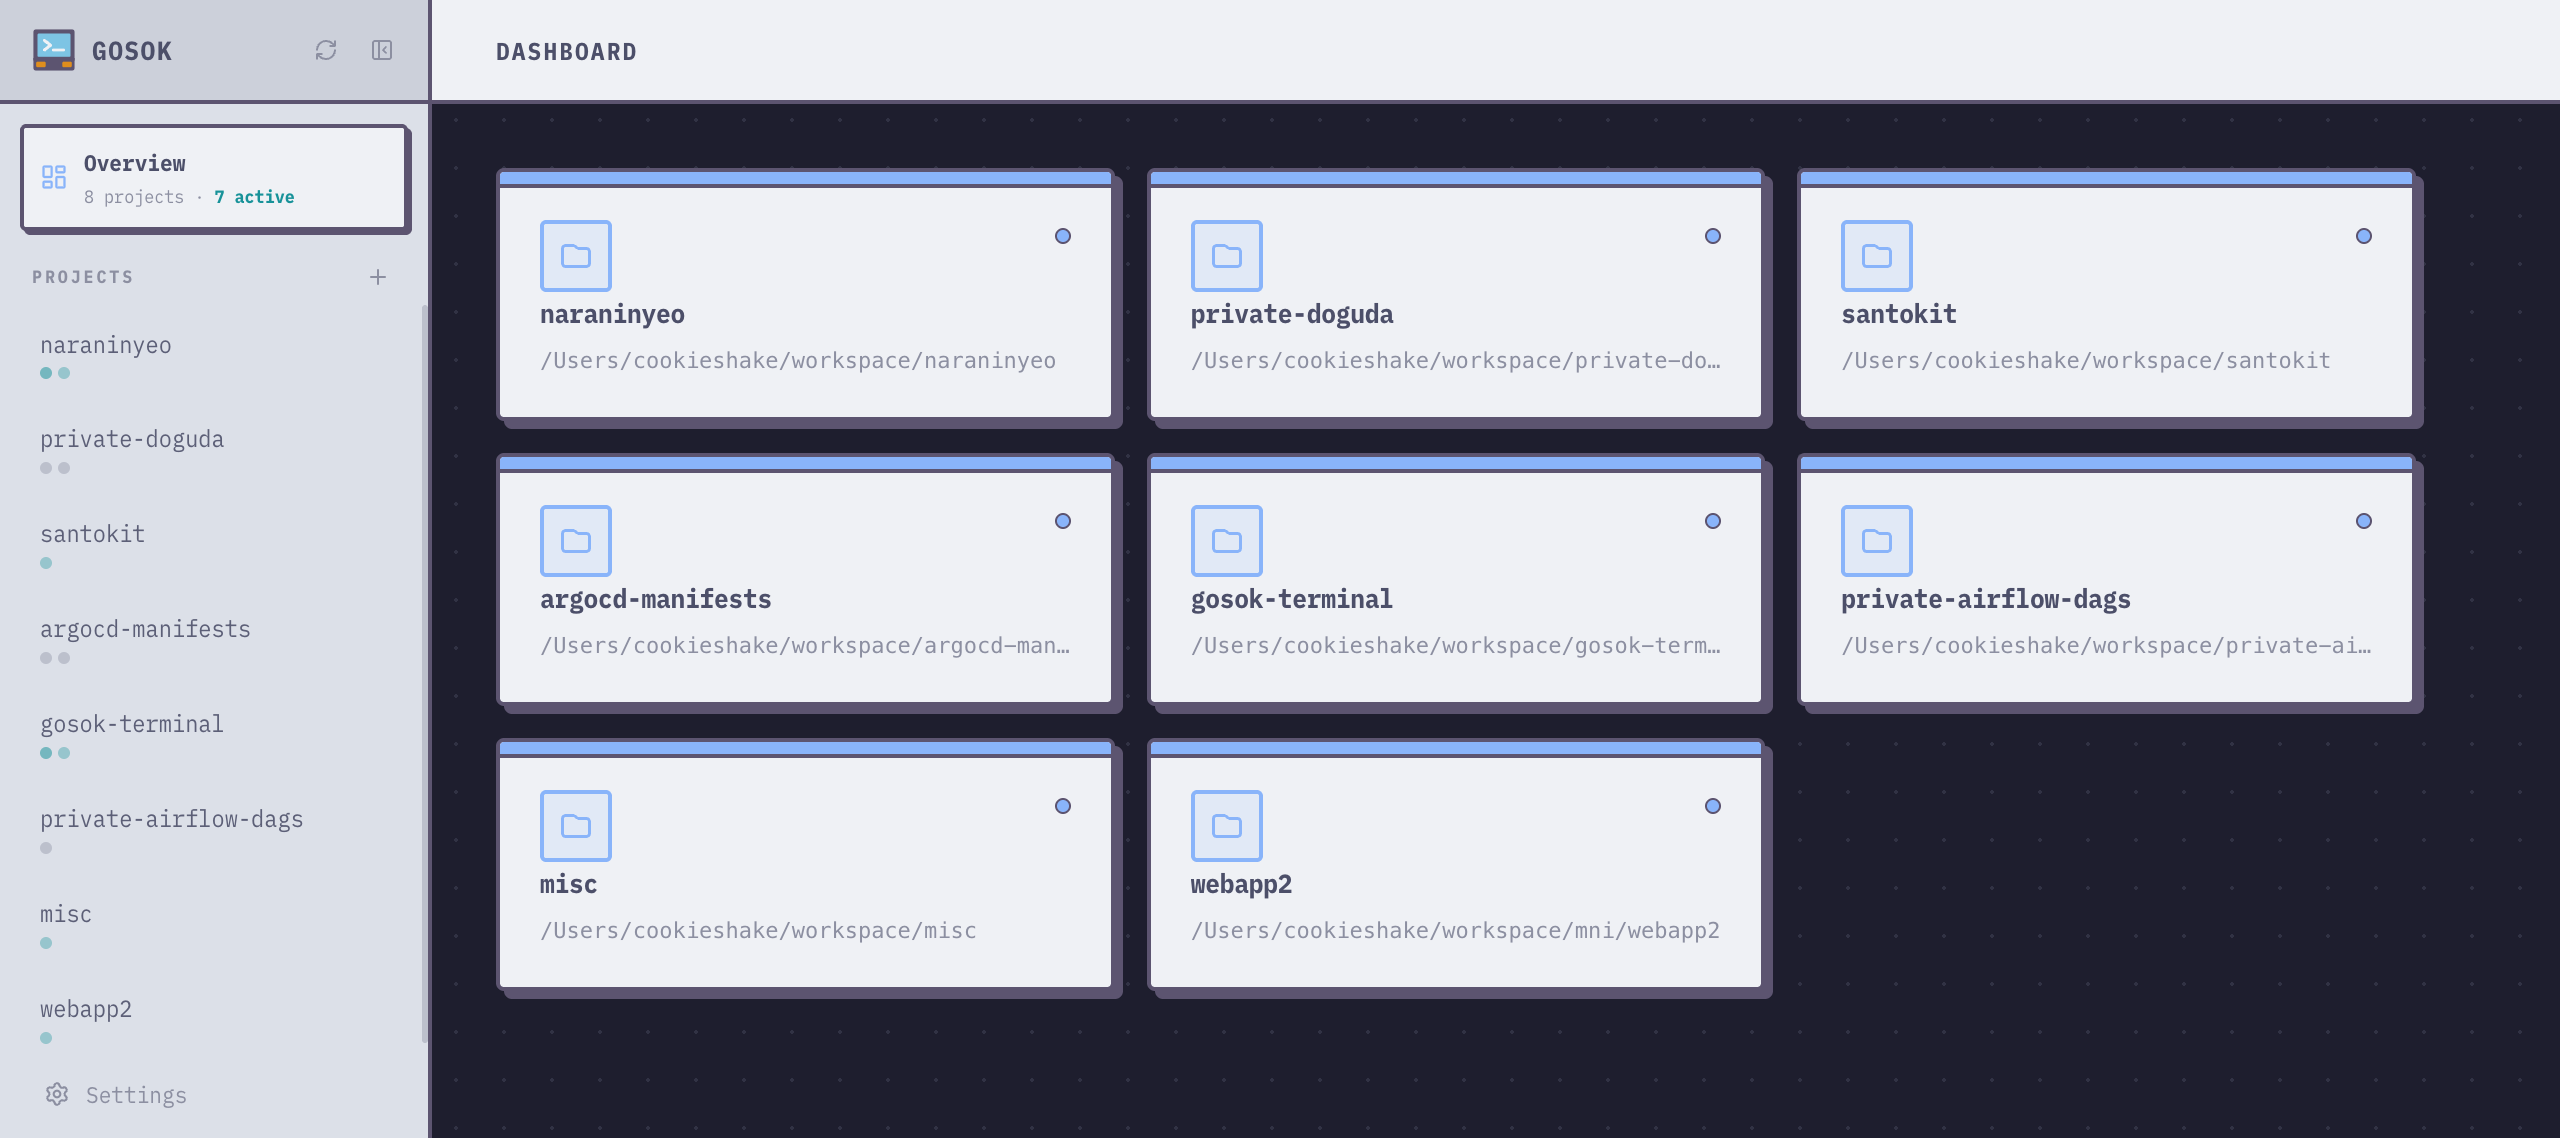
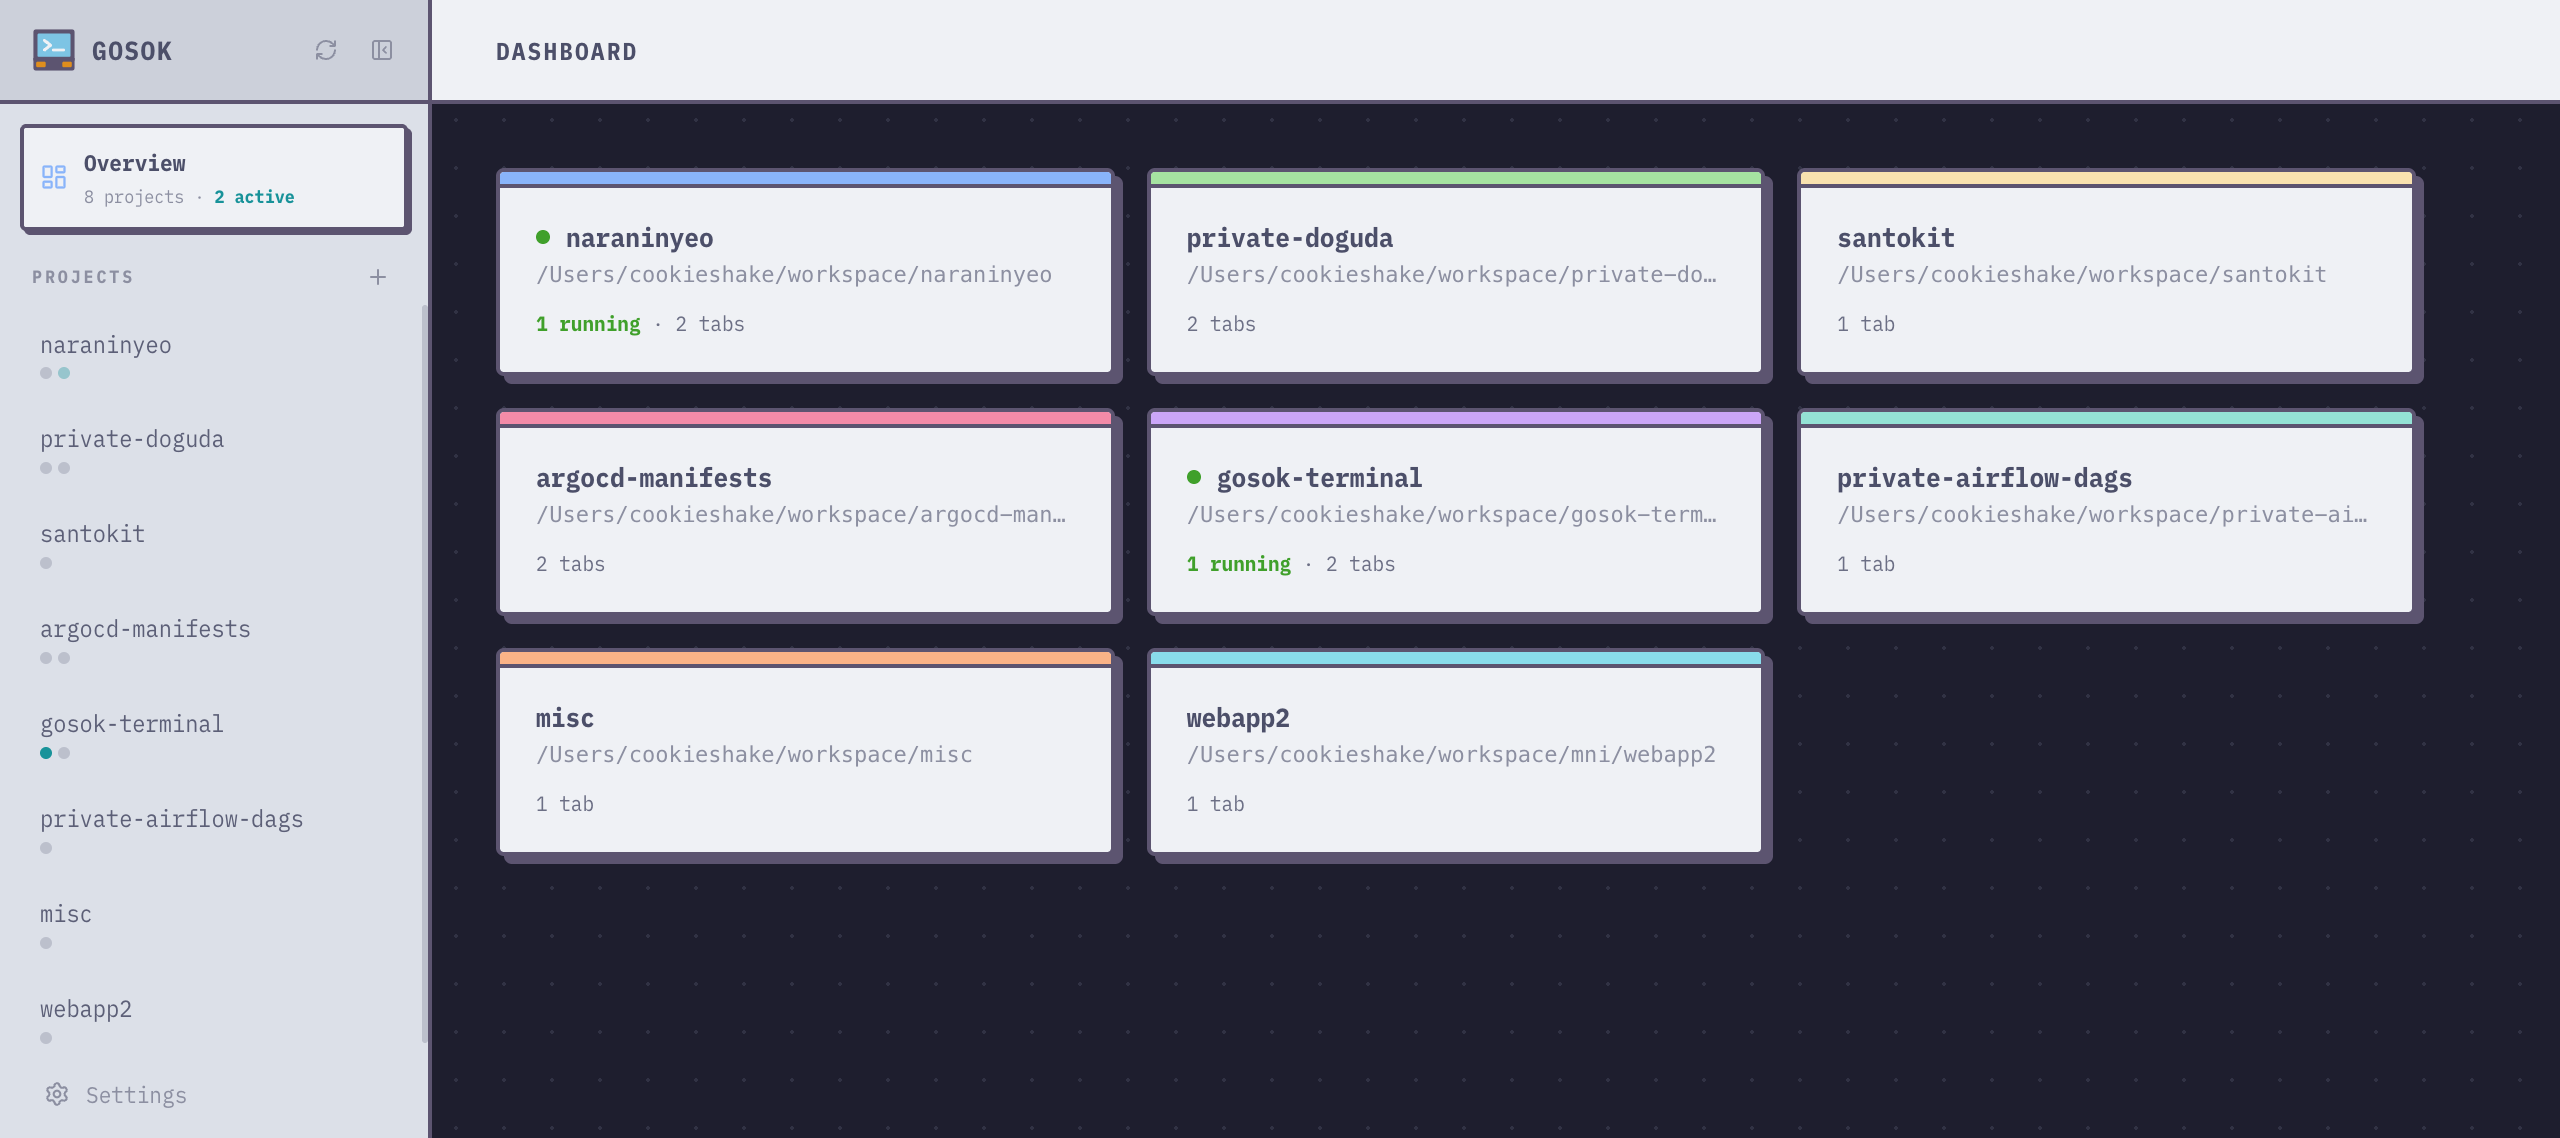
feat: improve dashboard with per-project accent colors and tab stats

Changed region(s): [[0.1875, 0.1538, 0.9688, 0.8919]]

diff --git a/frontend/src/components/Dashboard.tsx b/frontend/src/components/Dashboard.tsx
@@ -1,14 +1,21 @@
 import { useIsMobile } from '../hooks/useIsMobile';
 import type { Project } from '../api/types';
 
+interface TabSummary {
+  total: number;
+  running: number;
+  active: number;
+}
+
 interface DashboardProps {
   projects: Project[];
+  tabSummary: Record<string, TabSummary>;
   onSelectProject: (id: string) => void;
 }
 
-const CARD_ACCENTS = ['#89b4fa'];
+const ACCENTS = ['#89b4fa', '#a6e3a1', '#f9e2af', '#f38ba8', '#cba6f7', '#94e2d5', '#fab387', '#89dceb'];
 
-export default function Dashboard({ projects, onSelectProject }: DashboardProps) {
+export default function Dashboard({ projects, tabSummary, onSelectProject }: DashboardProps) {
   const isMobile = useIsMobile();
   return (
     <div className="flex flex-col h-full" style={{ background: 'transparent' }}>
@@ -39,9 +46,11 @@ export default function Dashboard({ projects, onSelectProject }: DashboardProps)
             <p style={{ fontSize: '0.6875rem', color: '#8c8fa1', marginTop: '4px' }}>Create one from the sidebar to get started</p>
           </div>
         ) : (
-          <div style={{ display: 'grid', gridTemplateColumns: 'repeat(auto-fill, minmax(280px, 1fr))', gap: '16px', maxWidth: '960px' }}>
+          <div style={{ display: 'grid', gridTemplateColumns: 'repeat(auto-fill, minmax(260px, 1fr))', gap: '16px', maxWidth: '960px' }}>
             {projects.map((p, i) => {
-              const accent = CARD_ACCENTS[i % CARD_ACCENTS.length];
+              const accent = ACCENTS[i % ACCENTS.length];
+              const summary = tabSummary[p.id];
+              const hasRunning = summary && summary.running > 0;
               return (
                 <button
                   key={p.id}
@@ -74,34 +83,35 @@ export default function Dashboard({ projects, onSelectProject }: DashboardProps)
                   {/* Accent title bar */}
                   <div style={{ height: '8px', background: accent, borderBottom: '2px solid #5c5470' }} />
 
-                  <div style={{ padding: '16px 20px 20px' }}>
-                    {/* Icon row */}
-                    <div className="flex items-start justify-between mb-3">
-                      <div style={{
-                        width: '36px', height: '36px', borderRadius: '3px', display: 'flex',
-                        alignItems: 'center', justifyContent: 'center',
-                        background: accent + '22', border: `2px solid ${accent}`,
-                      }}>
-                        <svg width="18" height="18" viewBox="0 0 24 24" fill="none">
-                          <path d="M3 7C3 5.89 3.89 5 5 5H10.17C10.7 5 11.21 5.21 11.59 5.59L12.41 6.41C12.79 6.79 13.3 7 13.83 7H19C20.11 7 21 7.89 21 9V17C21 18.11 20.11 19 19 19H5C3.89 19 3 18.11 3 17V7Z" stroke={accent} strokeWidth="2" strokeLinejoin="round"/>
-                        </svg>
+                  <div style={{ padding: '14px 18px 16px' }}>
+                    {/* Name + status */}
+                    <div className="flex items-center gap-2 mb-1">
+                      {hasRunning && (
+                        <div style={{ width: '7px', height: '7px', borderRadius: '50%', background: '#40a02b', flexShrink: 0 }} />
+                      )}
+                      <div style={{ fontSize: '0.875rem', fontWeight: 700, color: '#4c4f69', overflow: 'hidden', textOverflow: 'ellipsis', whiteSpace: 'nowrap' }}>
+                        {p.name}
                       </div>
-                      <div style={{ width: '8px', height: '8px', borderRadius: '50%', background: accent, border: '1px solid #5c5470', marginTop: '4px' }} />
-                    </div>
-
-                    {/* Name */}
-                    <div style={{ fontSize: '0.875rem', fontWeight: 700, color: '#4c4f69', letterSpacing: '-0.01em', marginBottom: '5px', overflow: 'hidden', textOverflow: 'ellipsis', whiteSpace: 'nowrap' }}>
-                      {p.name}
                     </div>
 
                     {/* Path */}
-                    <div style={{ fontSize: '0.6875rem', color: '#8c8fa1', fontFamily: 'monospace', overflow: 'hidden', textOverflow: 'ellipsis', whiteSpace: 'nowrap', marginBottom: p.description ? '10px' : 0 }}>
+                    <div style={{ fontSize: '0.6875rem', color: '#8c8fa1', fontFamily: 'monospace', overflow: 'hidden', textOverflow: 'ellipsis', whiteSpace: 'nowrap', marginBottom: '8px' }}>
                       {p.path}
                     </div>
 
+                    {/* Tab stats */}
+                    {summary && summary.total > 0 && (
+                      <div style={{ fontSize: '0.6875rem', color: '#6c6f85' }}>
+                        {summary.running > 0
+                          ? <><span style={{ color: '#40a02b', fontWeight: 600 }}>{summary.running} running</span> · {summary.total} tab{summary.total !== 1 ? 's' : ''}</>
+                          : <>{summary.total} tab{summary.total !== 1 ? 's' : ''}</>
+                        }
+                      </div>
+                    )}
+
                     {/* Description */}
                     {p.description && (
-                      <div style={{ fontSize: '0.75rem', color: '#5c5f77', overflow: 'hidden', display: '-webkit-box', WebkitLineClamp: 2, WebkitBoxOrient: 'vertical' }}>
+                      <div style={{ fontSize: '0.75rem', color: '#5c5f77', overflow: 'hidden', display: '-webkit-box', WebkitLineClamp: 2, WebkitBoxOrient: 'vertical', marginTop: '8px' }}>
                         {p.description}
                       </div>
                     )}

diff --git a/frontend/src/App.tsx b/frontend/src/App.tsx
@@ -130,7 +130,7 @@ function AppContent() {
         ) : selectedProject ? (
           <ProjectView project={selectedProject} pendingTabId={pendingTabId} onPendingTabConsumed={() => setPendingTabId(null)} onNavigateToTab={navigateToTab} />
         ) : (
-          <Dashboard projects={projects} onSelectProject={(id) => { setSelectedProjectId(id); setShowSettings(false); }} />
+          <Dashboard projects={projects} tabSummary={tabSummaryByProject} onSelectProject={(id) => { setSelectedProjectId(id); setShowSettings(false); }} />
         )}
       </Layout>
 
